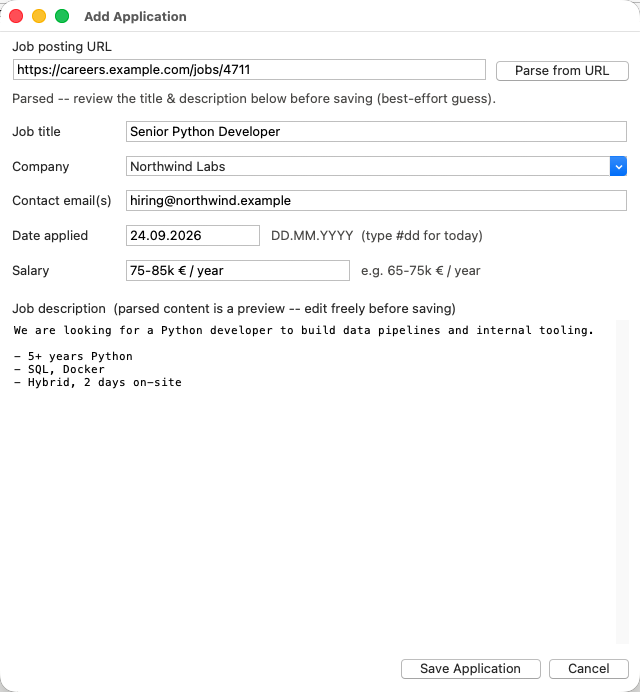
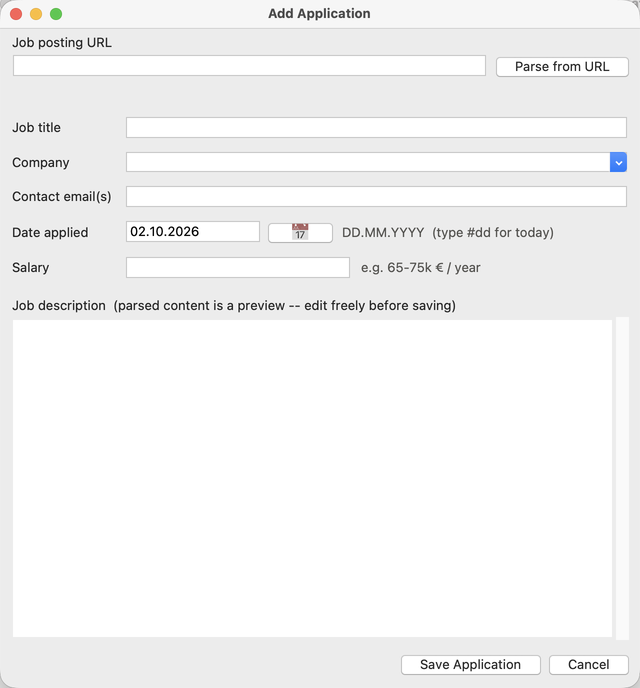
Update the README and its screenshots to the current app
- Retake all screenshots and add three for the new views: an application
  highlighted in the main window, reply times and the activity calendar
- Describe the status following the stage dates, the Ghosted stage,
  multi-line notes, the date picker, highlighting, the scrollable
  timeline and logos; correct how the progress chart shows interview
  formats; drop the no longer needed Git LFS requirement
- Add docs/make_screenshots.py, which retakes them on the example data
  (macOS)

diff --git a/docs/make_screenshots.py b/docs/make_screenshots.py
@@ -1,0 +1,176 @@
+"""Take the README screenshots: `python docs/make_screenshots.py [OUT_DIR]`.
+
+Opens the app on the bundled example data, shows each window and view in
+turn and captures it, title bar included, into OUT_DIR (docs/screenshots by
+default). macOS only, as it uses `screencapture`; the terminal running it
+needs the Screen Recording permission. Keep the mouse out of the way, as
+the windows open on the left of the screen.
+
+The windows are drawn in the light appearance, whatever the system uses,
+and logos are left as initials tiles: the example companies are made up,
+and a web lookup could find a real company of the same name.
+"""
+
+from __future__ import annotations
+
+import subprocess
+import sys
+import time
+import tkinter as tk
+from pathlib import Path
+
+import click
+from PIL import Image
+
+REPO_ROOT = Path(__file__).resolve().parent.parent
+sys.path.insert(0, str(REPO_ROOT))  # run as a script, not as a module
+
+import job_tracker.gui.logo_store as logo_store  # noqa: E402
+from job_tracker.gui.add_dialog import AddApplicationDialog  # noqa: E402
+from job_tracker.gui.edit_dialog import EditApplicationDialog  # noqa: E402
+from job_tracker.gui.main_window import MainWindow  # noqa: E402
+from job_tracker.gui.stats_dialog import (  # noqa: E402
+    CALENDAR_VIEW,
+    StatisticsDialog,
+)
+from job_tracker.gui.timeline_dialog import TimelineDialog  # noqa: E402
+from job_tracker.repository import (  # noqa: E402
+    DEFAULT_CSV_PATH,
+    ApplicationRepository,
+)
+
+DEFAULT_OUT_DIR = REPO_ROOT / "docs" / "screenshots"
+# The application highlighted in the main window, the one opened for
+# editing, and a mix for the timeline: offers, a rejection, still open and
+# ghosted.
+HIGHLIGHTED = "Vertex Systems · Platform Engineer"
+EDITED = "Acme Robotics · Backend Engineer"
+TIMELINE = [
+    "Acme Robotics · Backend Engineer",
+    "Beacon Insights · Data Analyst",
+    "Vertex Systems · Platform Engineer",
+    "Lumen Softworks · Frontend Engineer",
+    "Helios AI · MLOps Engineer",
+    "Evergreen Energy · Data Platform Engineer",
+    "Helios AI · Research Engineer",
+    "Brightpath Health · Full-Stack Developer",
+]
+STATISTICS_VIEWS = [
+    ("Success rate", "statistics-success-rate.png"),
+    ("By company", "statistics-by-company.png"),
+    ("Company share", "statistics-company-share.png"),
+    ("Reply times", "statistics-reply-times.png"),
+]
+
+
+def light(window: tk.Misc) -> None:
+    window.update_idletasks()  # Tk needs the window made first
+    window.tk.call(
+        "::tk::unsupported::MacWindowStyle", "appearance", window, "aqua"
+    )
+
+
+def settle(window: tk.Misc, seconds: float = 0.6) -> None:
+    window.update()
+    time.sleep(seconds)
+    window.update()
+
+
+def shot(window: tk.Misc, path: Path) -> None:
+    """The window with its title bar, at one pixel per point (a Retina
+    capture is scaled down), so the images match in size."""
+    window.lift()
+    window.focus_force()
+    settle(window)
+    x, y = window.winfo_x(), window.winfo_y()
+    width = window.winfo_width()
+    height = window.winfo_height() + window.winfo_rooty() - y
+    subprocess.run(
+        ["screencapture", "-x", "-R", f"{x},{y},{width},{height}", str(path)],
+        check=True,
+    )
+    image = Image.open(path)
+    if image.width != width:
+        image = image.resize((width, height), Image.Resampling.LANCZOS)
+    image.save(path, optimize=True)
+    click.echo(f"{path.name}: {width}x{height}")
+
+
+def find_child(window: tk.Misc, kind: type) -> tk.Misc:
+    return next(c for c in window.winfo_children() if isinstance(c, kind))
+
+
+def take_screenshots(out_dir: Path) -> None:
+    main = MainWindow(ApplicationRepository(DEFAULT_CSV_PATH))
+    light(main)
+    main.geometry("1340x800+60+60")
+    settle(main, 1.0)
+    applications = {a.display_name: a for a in main.applications}
+
+    # Main window: the waterfall, an application highlighted in it, and
+    # the progress chart.
+    shot(main, out_dir / "main-window.png")
+    main.application_list.tree.selection_set(applications[HIGHLIGHTED].id)
+    settle(main, 0.5)
+    shot(main, out_dir / "main-highlight.png")
+    main.application_list.tree.selection_set([])
+    main.chart_view.set("Progress by application")
+    main._show_chart()
+    shot(main, out_dir / "main-progress.png")
+
+    add = AddApplicationDialog(
+        main, main.repository, [], on_saved=lambda: None
+    )
+    light(add)
+    add.geometry("+90+70")
+    shot(add, out_dir / "add-application.png")
+    add.destroy()
+
+    main._open_edit_dialog(applications[EDITED])
+    edit = find_child(main, EditApplicationDialog)
+    light(edit)
+    edit.geometry("+90+40")
+    shot(edit, out_dir / "edit-application.png")
+    edit.destroy()
+
+    stats = StatisticsDialog(main, main.applications, main.logos)
+    light(stats)
+    stats.geometry("860x640+90+70")
+    for view, name in STATISTICS_VIEWS:
+        stats.view.set(view)
+        stats._redraw()
+        shot(stats, out_dir / name)
+    stats.view.set(CALENDAR_VIEW)
+    stats.activity_kind.set("All stage dates")
+    stats._redraw()
+    shot(stats, out_dir / "statistics-calendar.png")
+    stats.destroy()
+
+    timeline = TimelineDialog(
+        main, [applications[name] for name in TIMELINE], main.logos
+    )
+    light(timeline)
+    timeline.geometry("+90+40")
+    shot(timeline, out_dir / "timeline.png")
+    timeline.destroy()
+    main.destroy()
+
+
+@click.command()
+@click.argument(
+    "out_dir",
+    required=False,
+    default=DEFAULT_OUT_DIR,
+    type=click.Path(file_okay=False, path_type=Path),
+)
+def run(out_dir: Path) -> None:
+    """Take the README screenshots into OUT_DIR (docs/screenshots)."""
+    if sys.platform != "darwin":
+        raise click.ClickException("Taking screenshots needs macOS.")
+    out_dir.mkdir(parents=True, exist_ok=True)
+    logo_store.find_logo = lambda *_: None  # initials only, no web lookups
+    take_screenshots(out_dir)
+
+
+if __name__ == "__main__":
+    run()

diff --git a/README.md b/README.md
@@ -10,16 +10,18 @@ file, so nothing leaves your machine.
 ## Features
 
 - **Application list** with sortable columns (title, company, status, salary,
-  contact, dates).
+  contact, dates); select a row to highlight it in the chart below.
 - **Add from a URL**: paste a job posting link and the app makes a best-effort
   guess at the title and description for you to review.
 - **Stage tracking**: Applied → Online Assessment → 1st / 2nd / 3rd Round →
-  Offer, plus an optional Coding Challenge and Rejected, each with its own
-  date. Interview rounds are tagged with a format (On-site, Virtual, Phone)
-  and a focus (Technical, HR, Hiring manager).
+  Offer, plus an optional Coding Challenge, Rejected and Ghosted, each with
+  its own date. The status follows the latest date. Interview rounds are
+  tagged with a format (On-site, Virtual, Phone) and a focus (Technical, HR,
+  Hiring manager).
 - **Charts**: an outcome waterfall and a per-stage progress chart in the main
-  window, success rates and company breakdowns in the Statistics window, and a
-  timeline of selected applications.
+  window; success rates, company breakdowns, reply times and an activity
+  calendar in the Statistics window; and a scrollable timeline of selected
+  applications.
 - **Company logos** in the list, the edit window, the timeline and the
   company chart, looked up on the web without any account or API key.
 - **Plain CSV storage** in `data/applications.csv`, which you can open in any
@@ -35,8 +37,6 @@ file, so nothing leaves your machine.
   - macOS with Homebrew: `brew install python-tk@3.12`
   - Debian / Ubuntu: `sudo apt install python3-tk`
   - Fedora: `sudo dnf install python3-tkinter`
-- **Git LFS**, only if you want the bundled example data
-  (`data/applications.csv` is stored with LFS).
 
 Check that Python and Tkinter work:
 
@@ -55,8 +55,9 @@ source .venv/bin/activate          # Windows: .venv\Scripts\activate
 pip install -r requirements.txt
 ```
 
-`requirements.txt` installs matplotlib (charts), click (command line),
-requests, beautifulsoup4 and lxml (parsing job postings).
+`requirements.txt` installs matplotlib (charts), Pillow (company logos),
+click (command line), requests, beautifulsoup4 and lxml (parsing job
+postings).
 
 ### Development setup (optional)
 
@@ -74,6 +75,13 @@ pre-commit run --all-files     # ruff lint + format, tests, file checks
 ```
 
 The hooks expect the virtual environment at `.venv/`.
+
+After changing how the app looks, retake the screenshots in this README
+(macOS only; the terminal needs the Screen Recording permission):
+
+```bash
+python docs/make_screenshots.py
+```
 
 ## Running the app
 
@@ -111,9 +119,8 @@ The main window shows your applications above a chart.
   Empty values always go last. Salaries sort by amount, and statuses in
   pipeline order.
 - **Edit** an application by double-clicking its row.
-- **Highlight** an application in the chart below by selecting its row:
-  the parts of the chart it belongs to stand out, outlined, and the rest
-  fades.
+- **Highlight** an application in the chart below by selecting its row (see
+  below).
 - **Select several rows** with ⌘-click (Ctrl-click on Windows/Linux) or
   Shift-click, then press **Timeline** to compare them.
 - **Refresh** reloads the CSV, handy if you edited it in another program.
@@ -124,10 +131,19 @@ off where each one ended: ghosted, rejected right away, rejected after a
 given stage, still in progress, and finally the offers.
 
 **Progress by application** stacks every application on each stage it
-reached, so you can see the funnel narrow. The hatching shows the interview
-format: solid for on-site, hatched for virtual, dotted for phone.
+reached, so you can see the funnel narrow. Interview rounds show their
+format: solid for on-site, a light tint with a dashed outline for virtual,
+dotted for phone. Each application keeps its own color; once the colors run
+out they repeat with a hatching. Up to 15 applications get a legend; with
+more, hover a segment to see whose it is.
 
 ![Progress by application chart](docs/screenshots/main-progress.png)
+
+**Selecting a single row** highlights that application in either chart: the
+parts it belongs to stay bright and outlined, everything else fades, and a
+line under the title says where it ended up.
+
+![A selected application highlighted in the waterfall](docs/screenshots/main-highlight.png)
 
 In the Status column, interview rounds show their tags as letters, e.g.
 `Interview - 2nd Round · V T` for a virtual technical round (format:
@@ -148,7 +164,8 @@ Click **+ Add Application**.
 2. Fill in the **job title** (required), **company**, **contact email(s)**
    and **salary**. The company field suggests companies you have applied to
    before. Separate several email addresses with commas.
-3. **Date applied** defaults to today. Dates are written as `DD.MM.YYYY`.
+3. **Date applied** defaults to today. Dates are written as `DD.MM.YYYY`;
+   the calendar button next to the field lets you pick one instead.
 4. Press **Save Application**.
 
 **Tip:** in any date or text field, typing `#dd` replaces it with today's
@@ -160,25 +177,29 @@ Double-click a row to open the edit dialog.
 
 ![Edit Application dialog](docs/screenshots/edit-application.png)
 
-- Set **Current status** to where the application stands now.
-- Enter the date for every **stage** you reached, using the **Today** button
-  or `#dd`, and leave stages you did not reach blank. These dates drive the
-  charts and the timeline.
+- Enter the date for every **stage** you reached, using the **Today**
+  button, the calendar button or `#dd`, and leave stages you did not reach
+  blank. These dates drive the charts and the timeline.
+- **Current status** follows from the dates: it is the stage reached last,
+  and updates as you type. To close an application nobody answered, enter a
+  **Ghosted** date.
 - For each **interview round**, choose its **Format** (defaults to Virtual)
   and, optionally, its **Focus**.
 - The **Coding Challenge** is optional and can happen between any two
   rounds. The dialog shows where it falls, e.g. "→ after 2nd Round", based
   on the dates.
-- **Notes** is a free-text field for anything else, such as offer details or
-  deadlines.
-- **Last update** is set automatically on every save.
+- **Notes** is a multi-line free-text field for anything else, such as offer
+  details or deadlines.
+- **Last update** is the date of the latest stage, so it shows when
+  something last happened.
+- The company's **logo** sits at the top right.
 - **Delete** removes the application permanently (after asking).
 
 ### Statistics
 
-Press **Statistics** to open the statistics window. Use the **Applied**
-filter to limit it to applications sent in the last 30 or 90 days or the last
-12 months.
+Press **Statistics** to open the statistics window and pick a **View**. Use
+the **Applied** filter to limit a view to applications sent in the last 30 or
+90 days or the last 12 months (the calendar has its own month switcher).
 
 **Success rate** shows what share of applications reached a **Target**:
 an offer, an assessment or interview, any reply at all, a rejection, or being
@@ -203,12 +224,16 @@ the applications still waiting, against the average reply time of each kind
 Applications waiting past the 30-day ghosted limit sit at the right edge;
 hover them for the actual number of days.
 
+![Statistics: reply times](docs/screenshots/statistics-reply-times.png)
+
 **Calendar** shows one month at a time as a grid of days, shaded by how much
 happened on each, like a contribution graph. **Count** switches between
 applications sent and all stage dates (interviews, rejections, offers, …).
 Switch months with ◀ / ▶ or the arrow keys; **This month** jumps back to
 today. The shades are relative to your busiest day overall, so months
 compare with each other. Hover a day to see what happened.
+
+![Statistics: activity calendar](docs/screenshots/statistics-calendar.png)
 
 #### How outcomes are counted
 
@@ -221,25 +246,28 @@ and current status:
 | **In progress**            | Got past the application stage and was not rejected.      |
 | **Rejected after a stage** | Rejected after an assessment or interview.                |
 | **Rejected right away**    | Rejected without getting past the application.            |
-| **Ghosted**                | No reply at all 30 or more days after applying.           |
+| **Ghosted**                | Marked as ghosted, or no reply 30+ days after applying.   |
 | **Awaiting reply**         | No reply yet, but applied less than 30 days ago.          |
 
 ### Timeline
 
 Select one or more applications in the list and press **Timeline** to see
 how each one progressed: every stage reached, the days between stages and the
-total duration.
+total duration. Open applications run on to today's red line as a dashed
+tail; ghosted ones are marked in purple.
 
 ![Timeline of selected applications](docs/screenshots/timeline.png)
 
-Long timelines scroll; the dates stay in view at the top. Ghosted
-applications are marked in purple.
+Long timelines scroll (scrollbar, mouse wheel or trackpad), with the dates
+staying in view at the top. Hover a stage or the stretch between two for the
+dates.
 
 ### Company logos
 
 Each company's logo is shown in the list, the edit window, the timeline and
-the **By company** chart. The app looks them up in the background when it starts, so it is
-usable straight away and the logos appear within a second or two. Logos are
+the **By company** chart. The app looks them up in the background when it
+starts, so it is usable straight away and the logos appear within a second or
+two. Logos are
 only kept while the app runs; nothing is stored on disk.
 
 To find a company's logo, the app needs its website. It takes it from
@@ -253,7 +281,8 @@ To find a company's logo, the app needs its website. It takes it from
 
 The logo itself comes from [Hunter's free logo service](https://hunter.io/api/logo).
 Neither needs an account or an API key. Companies without a logo get a tile
-with their initials.
+with their initials, as the made-up companies in the example data (and the
+screenshots) do.
 
 This sends company names and websites to Clearbit and Hunter. Start the app
 with `--no-logos` if you'd rather not.
@@ -287,4 +316,5 @@ job_tracker/
 tests/                 pytest suite
 data/applications.csv  example data, used when no CSV_PATH is given
 docs/screenshots/      images used in this README
+docs/make_screenshots.py  retakes them (macOS)
 ```
